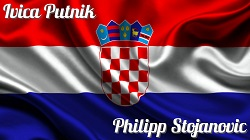
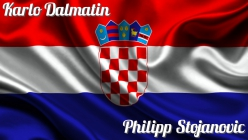
dalmatin update

diff --git a/application/includes/info/wcop.php b/application/includes/info/wcop.php
@@ -72,8 +72,8 @@ $return['countries'] = [
     ],
     'hr' => [
         'player1' => [
-            'firstname' => 'Ivica',
-            'surname' => 'Putnik'
+            'firstname' => 'Karlo',
+            'surname' => 'Dalmatin'
         ],
         'player2' => [
             'firstname' => 'Philipp',
